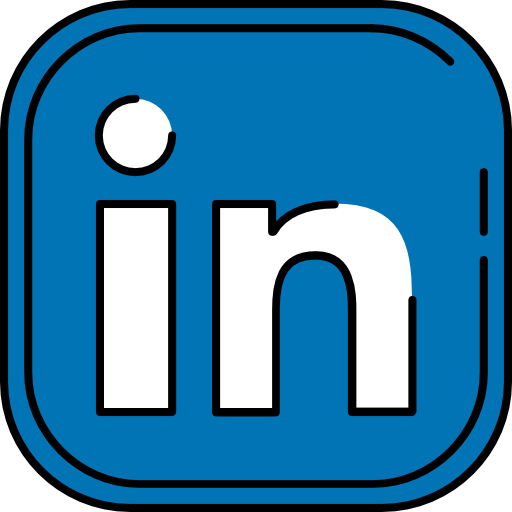
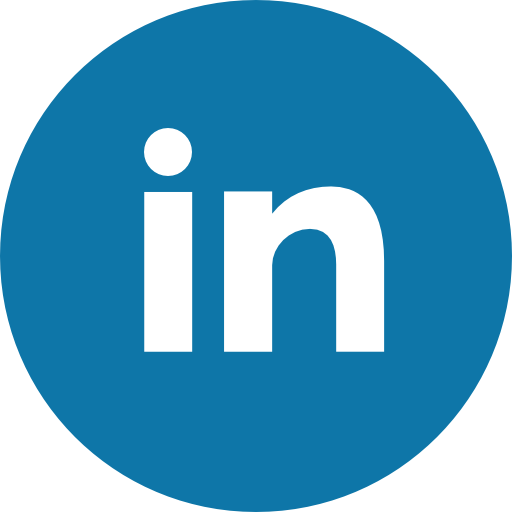
Alterado icone de rede social no rodapé
close #86

diff --git a/pypro/base/templates/base/footer.html b/pypro/base/templates/base/footer.html
@@ -8,14 +8,13 @@
                     <a href="mailto:{{ contato_email }}" class="text-light">{{ contato_email }}</a>
                 </address>
             </div>
-            <div class="col-1">
-                <a class="icon-github m-2 mt-5 pt-4" href="https://github.com/marvinsilva" target="_blank" style="align-content: center">
-                    <img src="{% static 'img/github.png' %}" alt="Icone do Github" height=auto width="50" background="white"></a>
-            </div>
-            <div class="col-2">
-                <a class="icon-linkedin m-2 mt-5 pt-4" href="https://linkedin.com/in/marcusvinicius92" target="_blank" style="align-content: center">
-                    <img src="{% static 'img/linkedin.png' %}" alt="Icone do Linkedin" height=auto width="50"></a>
-            </div>
+            <ul>
+                <h6 class="white-text"> Redes sociais</h6>
+                <a href="https://github.com/marvinsilva"><img src="{% static 'img/github.png' %}"
+                        height=auto width="40"></a>
+                <a href="https://linkedin.com/in/marcusvinicius92"><img src="{% static 'img/linkedin.png' %}"
+                        height=auto width="40"></a>
+            </ul>
         </div>
     </div>
     <div class="rights pb-2">
